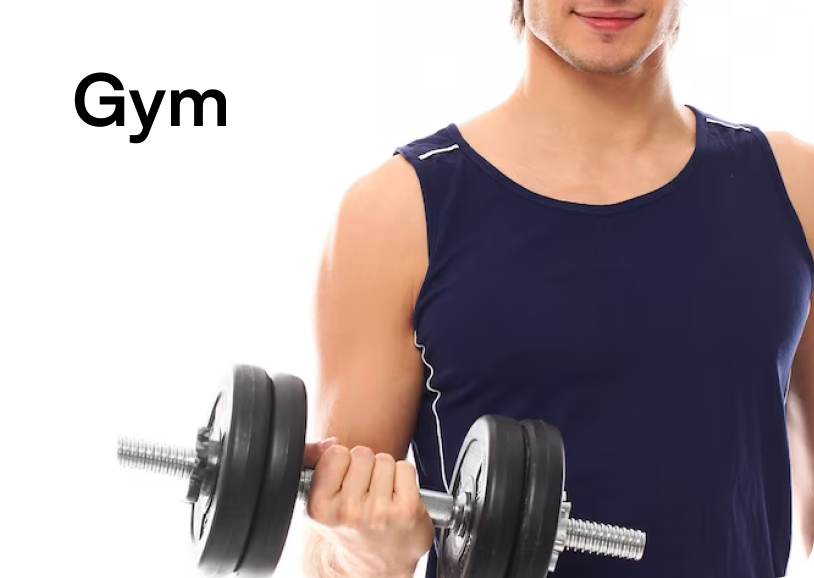
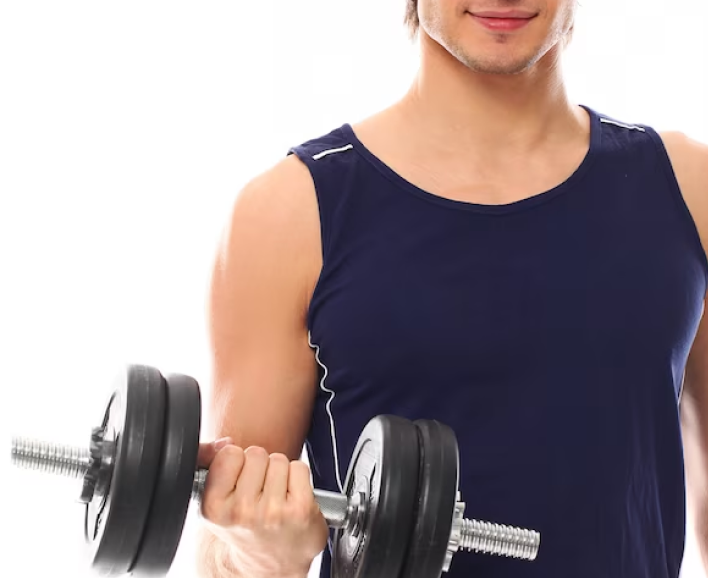
feat: BrowseByDressStyleSection bileşeninde stil güncellemeleri ve etiket ekleme
BrowseByDressStyleSection bileşeninde stil güncellemeleri yapıldı. Kartların arka plan görselleri için yeni stil ayarları eklendi ve her stil için etiketler tanımlandı. Ayrıca, görsel dosyaları güncellendi.

diff --git a/src/components/home/browse-by-dress-style.tsx b/src/components/home/browse-by-dress-style.tsx
@@ -1,13 +1,13 @@
 import { cn } from "@/lib/utils";
 
 const cardBase =
-  "block min-h-[200px] overflow-hidden rounded-lg border border-border bg-white bg-center bg-no-repeat md:min-h-[260px]";
+  "relative block min-h-[200px] overflow-hidden rounded-lg border border-border bg-white bg-center bg-no-repeat md:min-h-[260px]";
 
 const STYLES = [
-  { image: "/img/casual.png" },
-  { image: "/img/formal.png" },
-  { image: "/img/party.png" },
-  { image: "/img/gym.png" },
+  { image: "/img/casual.png", label: "Casual" },
+  { image: "/img/formal.png", label: "Normal" },
+  { image: "/img/party.png", label: "Party" },
+  { image: "/img/gym.png", label: "Gym" },
 ] as const;
 
 /**
@@ -30,38 +30,23 @@ export function BrowseByDressStyleSection() {
         </h2>
         {/* Kartlar: soldan 2. gridin başına, sağdan 11. gridin sonuna (grid boşluklarını atla) */}
         <div className="grid grid-cols-12 gap-10 pl-10 pr-10 md:gap-12 md:pl-12 md:pr-12">
-          <div className="col-span-12 sm:col-span-5">
-            <div
-              className={cn(cardBase)}
-              style={{ backgroundImage: `url(${STYLES[0].image})`, backgroundSize: "30%" }}
-              role="img"
-              aria-label="Casual"
-            />
-          </div>
-          <div className="col-span-12 sm:col-span-7">
-            <div
-              className={cn(cardBase)}
-              style={{ backgroundImage: `url(${STYLES[1].image})`, backgroundSize: "30%" }}
-              role="img"
-              aria-label="Formal"
-            />
-          </div>
-          <div className="col-span-12 sm:col-span-7">
-            <div
-              className={cn(cardBase)}
-              style={{ backgroundImage: `url(${STYLES[2].image})`, backgroundSize: "30%" }}
-              role="img"
-              aria-label="Party"
-            />
-          </div>
-          <div className="col-span-12 sm:col-span-5">
-            <div
-              className={cn(cardBase)}
-              style={{ backgroundImage: `url(${STYLES[3].image})`, backgroundSize: "30%" }}
-              role="img"
-              aria-label="Gym"
-            />
-          </div>
+          {STYLES.map((style, index) => {
+            const colSpan = index === 0 || index === 3 ? "sm:col-span-5" : "sm:col-span-7";
+            return (
+              <div key={style.label} className={cn("col-span-12", colSpan)}>
+                <div
+                  className={cn(cardBase)}
+                  style={{ backgroundImage: `url(${style.image})`, backgroundSize: "cover", backgroundPosition: "center" }}
+                  role="img"
+                  aria-label={style.label}
+                >
+                  <span className="absolute left-4 top-4 text-lg font-semibold text-foreground md:left-5 md:top-5 md:text-xl">
+                    {style.label}
+                  </span>
+                </div>
+              </div>
+            );
+          })}
         </div>
       </section>
       <div className="col-span-1 hidden sm:block" aria-hidden />
